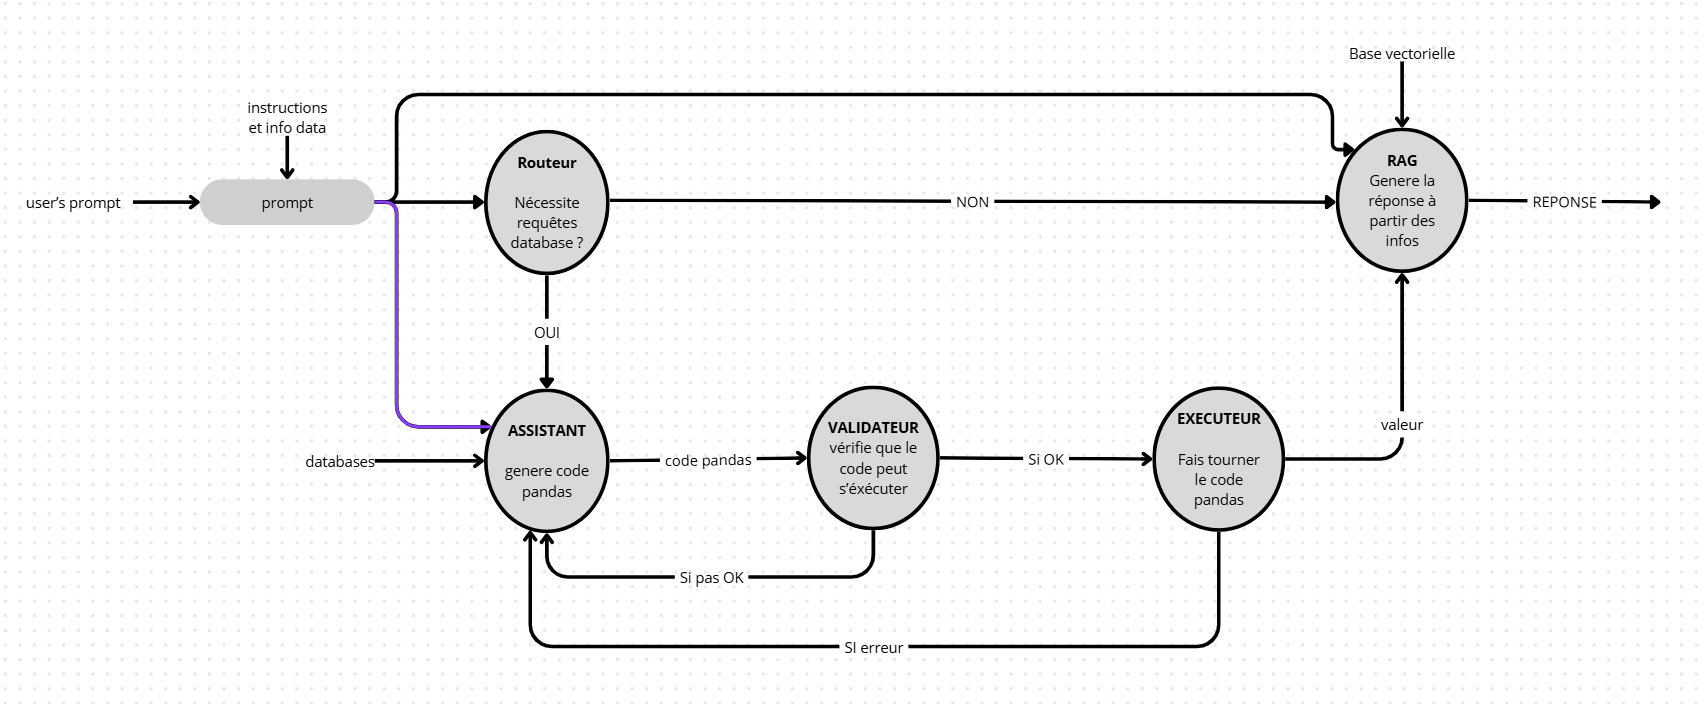
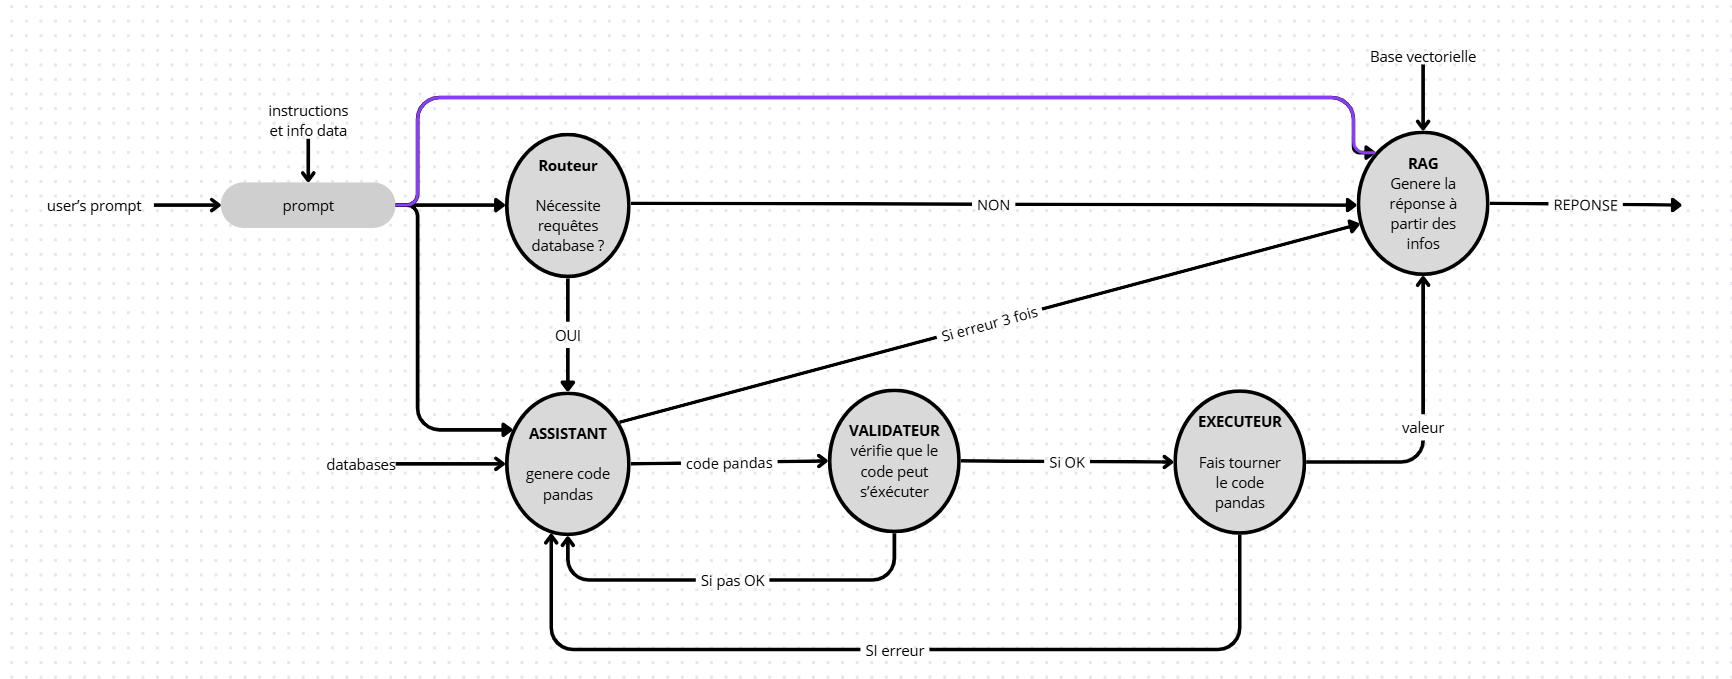
fix projet

Changed region(s): [[0.0, 0.0619, 0.9959, 0.9897], [0.5913, 0.4021, 0.6847, 0.4639], [0.6847, 0.3711, 0.7158, 0.4021]]

diff --git a/src/agent/nodes.py b/src/agent/nodes.py
@@ -70,7 +70,7 @@ class Nodes:
             Tu viens de calculer avec précision la donnée suivante à partir des bases de données de la ville : {stat}
             
             Ce chiffre est la vérité absolue et constitue la réponse directe à la question. Ne cherche pas à le vérifier dans le glossaire.
-            
+            Si le message indique qu'il y a erreur précise bien dans ta réponse qu'il y a eu une erreur.            
             Question de l'utilisateur : {question}
             
             Contexte issu du glossaire (à utiliser UNIQUEMENT pour enrichir les définitions ou expliquer le phénomène) : 
@@ -95,7 +95,7 @@ class Nodes:
             trace = ["--- ARRÊT FORCÉ ---\nLimite d'itérations atteinte pour la génération de code."]
             return {
                 "messages": [message_echec],
-                "next_step": "end",
+                "next_step": "generation",
                 "iteration_count": iterations + 1,
                 "reflexions": trace
             }
@@ -175,6 +175,7 @@ class Nodes:
                 "reflexions": trace
 
             }
+        """
         if  "```" in last_msg:
             error_msg = "ERREUR : Format invalide. Ne pas utiliser ``` ni de markdown."
             logger.warning(f"❌ SYNTAXE: {error_msg}")
@@ -184,7 +185,7 @@ class Nodes:
                 "reflexions": trace
 
             }
-    
+        """
         if  'resultat' not in last_msg:
             error_msg = "ERREUR : Il est nécessaire d'enregistrer le résultat dans une variable nommée resultat"
             logger.warning(f"❌ SYNTAXE: {error_msg}")

diff --git a/src/agent/graph.py b/src/agent/graph.py
@@ -46,6 +46,7 @@ def create_graph(agent_instance, engines_dict, retriever=None):
         lambda state: state["next_step"],
         {
             "execute": "validateur",
+            "generation": "rag_textuel",
             "end": END
         }
     )    
